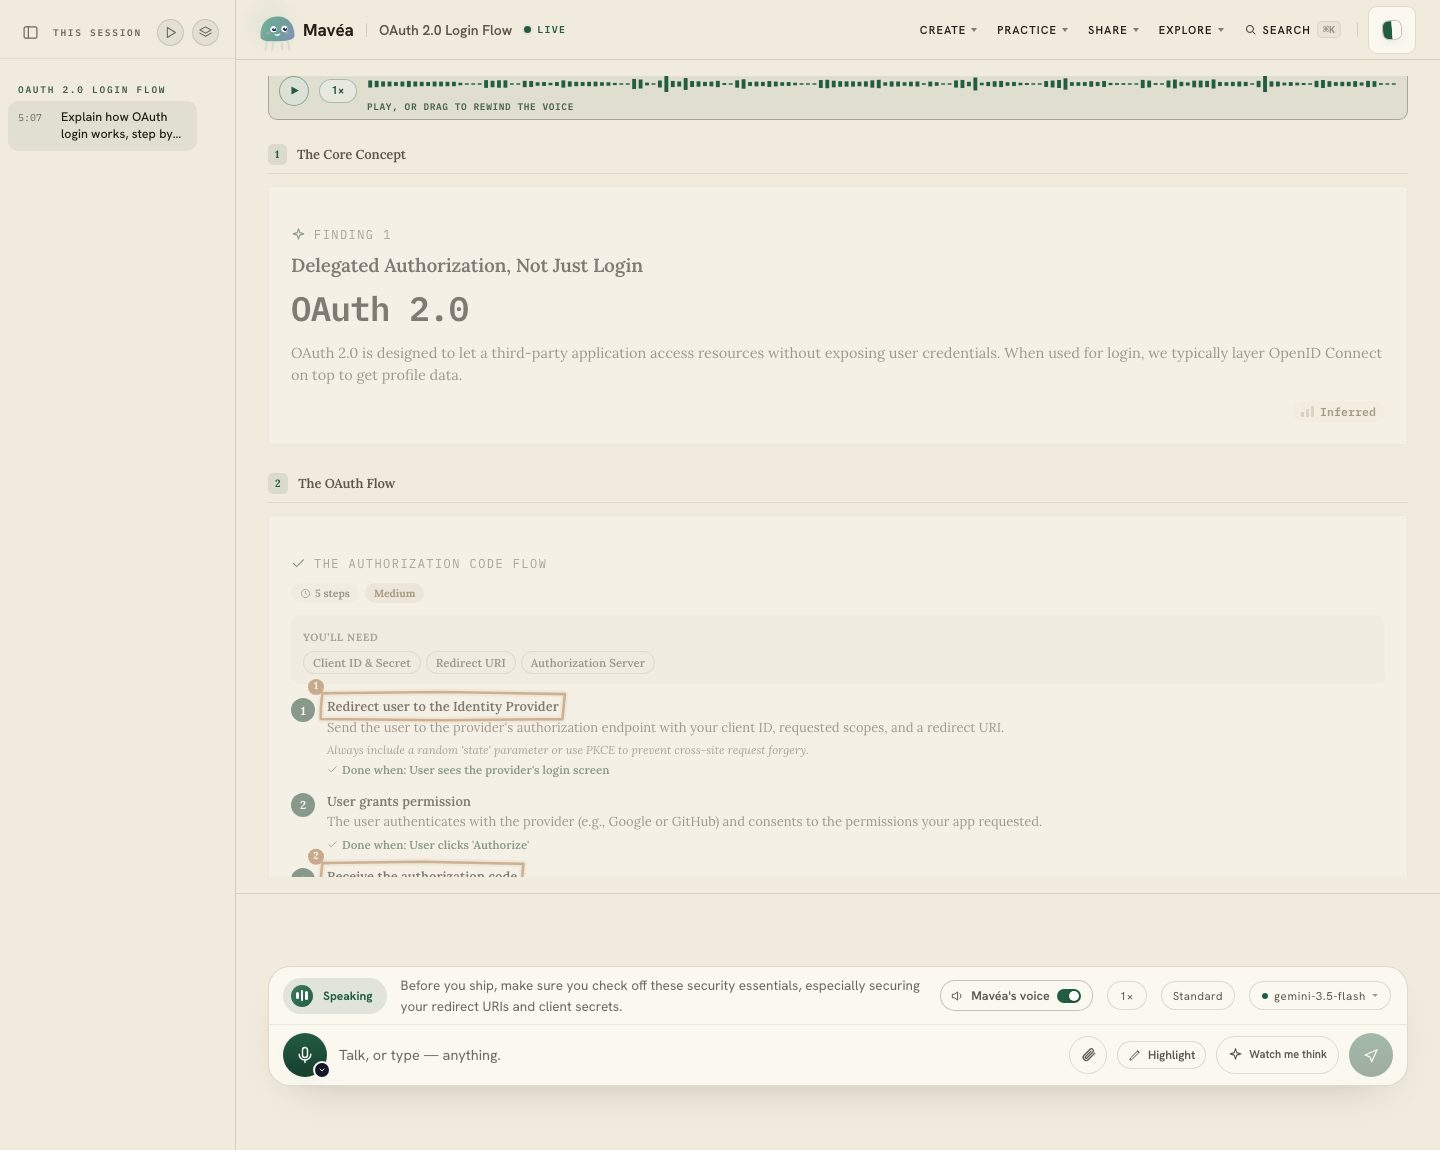
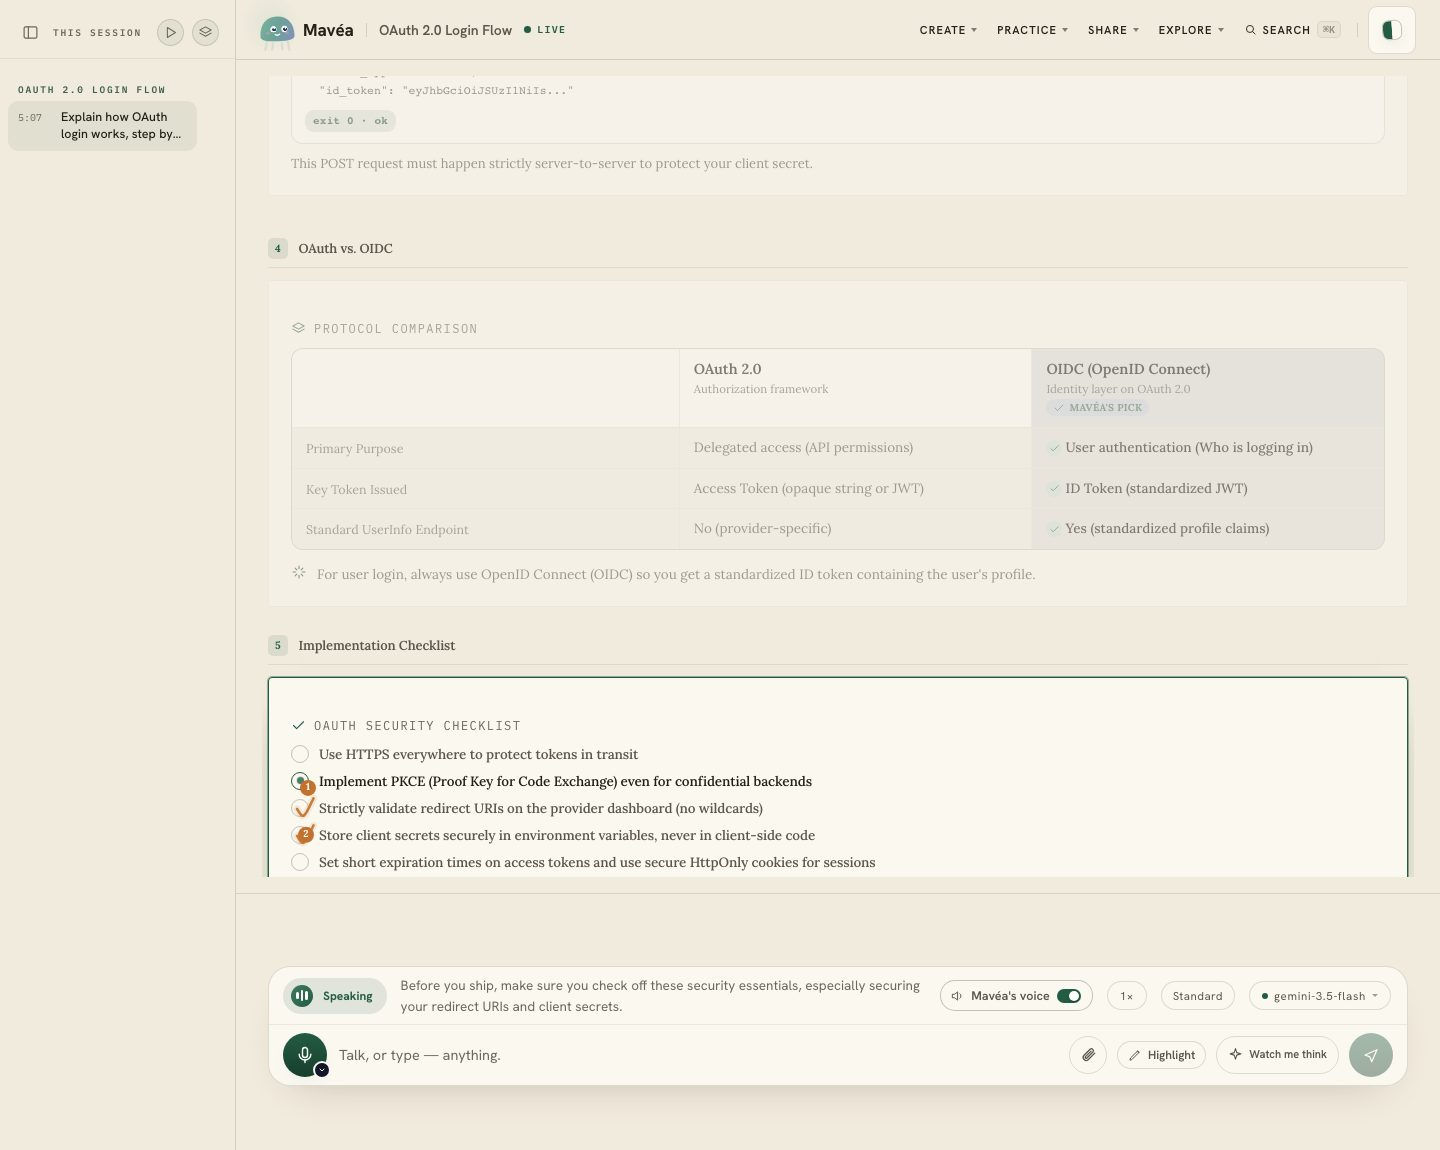
docs(readme): tighten the front page and hold the images on one row
The screenshots stacked because images in a paragraph wrap; a table row is the
only markup GitHub and npm both keep side by side.

Drop the catalog size from the opening description — it should say what the
canvas does, not how many parts it has. The count is still pinned in the
documents that quote it, and the guard now asserts the README states none.

Move the third-party policy into docs/THIRD-PARTY-POLICY.md with a short
pointer in its place. Every word is kept: three paragraphs of licence analysis
on the front page get skipped whole, including the part that matters most.

diff --git a/tests/doc-block-count.test.ts b/tests/doc-block-count.test.ts
@@ -30,7 +30,9 @@ describe('documented block count', () => {
   const extended = CATALOG_FACTS.filter((fact) => fact.family !== 'core').length;
   const legitimate = new Set([total, extended]);
 
-  it.each([['README.md'], ['docs/FEATURES.md'], ['ARCHITECTURE.md']])(
+  // The README deliberately states no catalog size — it describes what the canvas does, not how
+  // many parts it has. The guard still holds for the documents that do quote a number.
+  it.each([['docs/FEATURES.md'], ['ARCHITECTURE.md']])(
     '%s quotes only real catalog sizes',
     (path) => {
       const counts = statedCounts(read(path));
@@ -44,8 +46,8 @@ describe('documented block count', () => {
     },
   );
 
-  it('the README tells a reader the whole catalog size, not just the extended half', () => {
-    expect(statedCounts(read('README.md'))).toContain(total);
+  it('the README states no catalog size at all', () => {
+    expect(statedCounts(read('README.md'))).toEqual([]);
   });
 
   it('the gallery offers every catalog type, so its count is the catalog count', async () => {

diff --git a/README.md b/README.md
@@ -37,11 +37,14 @@ cards, or opens as a spatial canvas with the relationships drawn between them.
 
 <!-- Generated, never hand-captured: `pnpm gen:media` re-shoots these from the recorded demo
      replays (scripts/capture-media.mts). Absolute URLs because npm's package page cannot resolve
-     repo-relative paths. Kept small and side by side — a README is read, not toured. -->
-<p align="center">
-  <img src="https://raw.githubusercontent.com/TryMaveaAI/mavea/main/docs/media/canvas-view.jpg" alt="The same answer opened as a spatial canvas, cards connected by drawn links" width="420" />
-  <img src="https://raw.githubusercontent.com/TryMaveaAI/mavea/main/docs/media/canvas-build.jpg" alt="A protocol comparison table and a security checklist, with Mavéa's pen marks on two items" width="420" />
-</p>
+     repo-relative paths. A table, not a <p>: it is the only markup GitHub and npm both keep on one
+     row — images in a paragraph wrap and stack. -->
+<table>
+  <tr>
+    <td width="50%"><img src="https://raw.githubusercontent.com/TryMaveaAI/mavea/main/docs/media/canvas-view.jpg" alt="The same answer opened as a spatial canvas, cards connected by drawn links" /></td>
+    <td width="50%"><img src="https://raw.githubusercontent.com/TryMaveaAI/mavea/main/docs/media/canvas-build.jpg" alt="A protocol comparison table and a security checklist, with Mavéa's pen marks on two items" /></td>
+  </tr>
+</table>
 
 A recorded session, replayable with no key via `npx @mavea/mavea`.
 
@@ -77,7 +80,7 @@ place of the spoken walk.
 
 Mavéa is an AI you talk to and watch think. Ask out loud: a calm face listens, speaks the headline
 the instant it forms, then steps aside while a living canvas draws the answer in charts, timelines,
-and evidence you can check — composed from a catalog of **608 block types**. As it talks, it draws
+and evidence you can check, choosing the right form for each one. As it talks, it draws
 on the answer, circling the exact figure each line is about. Sourced claims keep their links and
 estimates can be labelled.
 
@@ -121,39 +124,13 @@ whisper.cpp adds its local model and working memory; a desktop container VM adds
 At the 8 GB minimum, leaving local speech off can be the better trade. `podman compose down` (or the
 Docker equivalent) reclaims it whenever you want it back.
 
-## Third-party commercial-use policy
+## Third-party commercial use
 
-Generated videos stay inside an explicit open-media allowlist — AV1 video with Opus audio in an
-MP4 container where the browser can encode them, WebM (VP9/VP8 + Opus) otherwise. Mavéa does
-not generate H.264, H.265, or AAC files or silently fall back to them. Published source licences
-and patent commitments reduce risk but are not a universal patent-clearance opinion. Conversation and Reel direction, rendering, and
-encoding stay local; opening Reel never calls a configured model provider. Narration uses the local
-Kokoro service. Document and presentation exports use bundled permissively licensed libraries and
-self-hosted SIL OFL fonts. Maps use BSD-licensed MapLibre with
-OpenFreeMap, whose public service terms reviewed August 11, 2026 currently permit commercial use
-without request fees; the required map attribution
-stays visible. The Kokoro weights and wrapper are Apache-2.0; the separately pulled service image
-also contains GPL-3.0-or-later eSpeak NG, whose license permits commercial use. Mavéa communicates
-with that separate process over HTTP and does not bundle or link its code. whisper.cpp and its
-selected model are MIT. The Kokoro image is pinned by immutable digest; the speech source archive
-and model are revision-pinned and checksum-verified before execution. The npm package does not
-contain either model or a container image: the user's container runtime fetches/builds those
-artifacts directly. Podman is Apache-2.0 and recommended; Docker Desktop is not universally free
-for commercial organizations, so users who choose it must confirm its terms.
-
-`pnpm check:licenses` scans the installed dependency graph and fails on unapproved, noncommercial,
-or strong-copyleft licenses. The same gate rejects generated-media codecs outside the reviewed allowlist,
-provider-directed Reel generation, restricted tile-service fallbacks, and bundled
-MP4/M4A/AAC/MP3/MOV files. `pnpm verify` and package publication both run this gate. Permissive
-licenses can still require copyright notices or
-attribution; those are preserved in [`THIRD-PARTY.txt`](THIRD-PARTY.txt) and
-[`public/fonts/LICENSE.txt`](public/fonts/LICENSE.txt).
-
-This automated gate is an engineering control, not a legal opinion: it cannot eliminate patent,
-training-data, ownership-chain, provider-terms, or other third-party-claim risk. A commercial launch
-that needs formal assurance should have counsel review the release artifact, notices, provider
-terms, and the rights held by every Mavéa rights holder. Anyone who redistributes the Kokoro image
-itself must also satisfy the GPL obligations carried by eSpeak NG inside that image.
+Generated media, bundled libraries, fonts, maps, and the local speech services are held to an
+open-media and permissive-licence allowlist, enforced on every build by `pnpm check:licenses`.
+It is an engineering control, not a legal opinion — the full policy, what the gate does and does
+not cover, and the obligations that travel with the speech container are in
+[docs/THIRD-PARTY-POLICY.md](docs/THIRD-PARTY-POLICY.md).
 
 ## 📄 Mavéa license
 

diff --git a/docs/THIRD-PARTY-POLICY.md b/docs/THIRD-PARTY-POLICY.md
@@ -1,0 +1,36 @@
+# Third-party commercial-use policy
+
+What Mavéa bundles, generates, and talks to, and the terms each of those carries. Summarised in
+the README; the detail lives here so the front page stays readable.
+
+Generated videos stay inside an explicit open-media allowlist — AV1 video with Opus audio in an
+MP4 container where the browser can encode them, WebM (VP9/VP8 + Opus) otherwise. Mavéa does
+not generate H.264, H.265, or AAC files or silently fall back to them. Published source licences
+and patent commitments reduce risk but are not a universal patent-clearance opinion. Conversation and Reel direction, rendering, and
+encoding stay local; opening Reel never calls a configured model provider. Narration uses the local
+Kokoro service. Document and presentation exports use bundled permissively licensed libraries and
+self-hosted SIL OFL fonts. Maps use BSD-licensed MapLibre with
+OpenFreeMap, whose public service terms reviewed August 11, 2026 currently permit commercial use
+without request fees; the required map attribution
+stays visible. The Kokoro weights and wrapper are Apache-2.0; the separately pulled service image
+also contains GPL-3.0-or-later eSpeak NG, whose license permits commercial use. Mavéa communicates
+with that separate process over HTTP and does not bundle or link its code. whisper.cpp and its
+selected model are MIT. The Kokoro image is pinned by immutable digest; the speech source archive
+and model are revision-pinned and checksum-verified before execution. The npm package does not
+contain either model or a container image: the user's container runtime fetches/builds those
+artifacts directly. Podman is Apache-2.0 and recommended; Docker Desktop is not universally free
+for commercial organizations, so users who choose it must confirm its terms.
+
+`pnpm check:licenses` scans the installed dependency graph and fails on unapproved, noncommercial,
+or strong-copyleft licenses. The same gate rejects generated-media codecs outside the reviewed allowlist,
+provider-directed Reel generation, restricted tile-service fallbacks, and bundled
+MP4/M4A/AAC/MP3/MOV files. `pnpm verify` and package publication both run this gate. Permissive
+licenses can still require copyright notices or
+attribution; those are preserved in [`THIRD-PARTY.txt`](THIRD-PARTY.txt) and
+[`public/fonts/LICENSE.txt`](public/fonts/LICENSE.txt).
+
+This automated gate is an engineering control, not a legal opinion: it cannot eliminate patent,
+training-data, ownership-chain, provider-terms, or other third-party-claim risk. A commercial launch
+that needs formal assurance should have counsel review the release artifact, notices, provider
+terms, and the rights held by every Mavéa rights holder. Anyone who redistributes the Kokoro image
+itself must also satisfy the GPL obligations carried by eSpeak NG inside that image.
